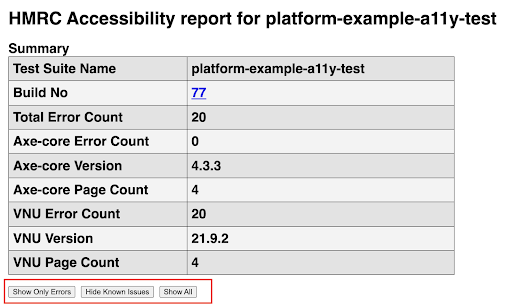
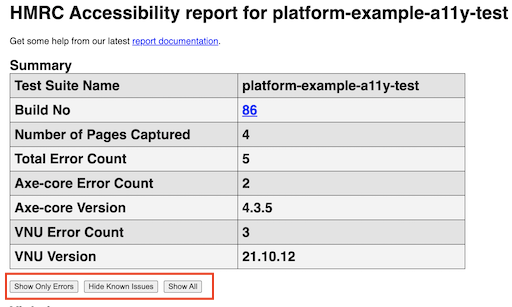
PLATUI-1608 - updating report documentation
Removing Axe-core Page Count and VNU Page Count from documentation as these no longer surface on the report

Adding Number of Pages Captured

Updating screenshots of summary table and summary with filters

Changed region(s): [[0.0, 0.118, 0.9375, 1.0], [0.0, 0.0, 1.0, 0.0885]]

diff --git a/docs/READING-THE-REPORT.md b/docs/READING-THE-REPORT.md
@@ -10,19 +10,17 @@ The first part of the generated HTML report is the summary. The summary displays
 
 `Build No` - A number to be able to uniquely identify each build job run as well as display how many times Jenkins has run this job.
 
+`Number of Pages Captured` - The number of pages captured to be assessed.
+
 `Total Error Count` - The total number of errors raised by both Axe-core and VNU during the assessment. This includes known issues identified by the Platform.
 
 `Axe-core Error Count` - The number of errors raised by Axe-core. This includes known issues identified by the Platform
 
 `Axe-core Version` - The version of Axe-core used to carry out the assessment. If you are looking to reproduce an issue manually using a browser plugin, ensure the axe-core version used by the plugin matches this version used by the job builder.
 
-`Axe-core Page Count` - The number of pages Axe-core ran against.
-
 `VNU Error Count` - The number of errors raised by VNU. This includes known issues identified by the Platform
 
 `VNU Version` - The version of VNU used to carry out the assessment. If you are looking to reproduce an issue manually using a local VNU installation, ensure the local VNU version matches this version used by the job builder.
-
-`VNU Page Count` - The number of pages VNU ran against.
 
 # Report columns
 The violations raised from Axe-core and VNU are made available under two different tabs within the generated HTML report.
